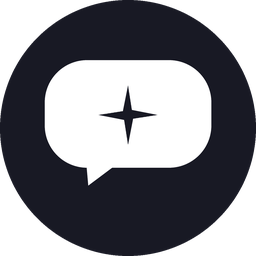
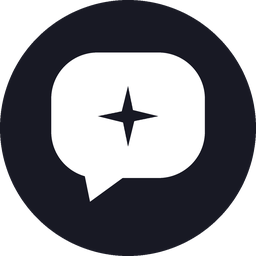
气泡改为方正比例（60%x49%，尾巴更明显、星腰加宽），修正方框内显扁的问题，版本 0.5.8

diff --git a/design/make_icon_final.py b/design/make_icon_final.py
@@ -10,7 +10,7 @@ DESIGN = os.path.dirname(os.path.abspath(__file__))
 INK = (24, 25, 36)
 
 
-def star_pts(cx, cy, a, c=0.19, rot=0.0):
+def star_pts(cx, cy, a, c=0.24, rot=0.0):
     pts = []
     for k in range(4):
         ang_tip = math.radians(rot + 90 * k)
@@ -24,13 +24,14 @@ def star_pts(cx, cy, a, c=0.19, rot=0.0):
     return pts
 
 
-def bubble_layer(star_scale=0.115):
+def bubble_layer(star_scale=0.118):
     """白色气泡，中央星形挖空为透明（自适应前景用）；star_scale=0 时为实心白"""
     fg = Image.new("RGBA", (SS, SS), (0, 0, 0, 0))
     d = ImageDraw.Draw(fg)
-    L, T, R, B = SS * 0.175, SS * 0.235, SS * 0.825, SS * 0.655
-    d.rounded_rectangle([L, T, R, B], radius=SS * 0.165, fill=(255, 255, 255, 255))
-    d.polygon([(SS * 0.335, SS * 0.615), (SS * 0.345, SS * 0.725), (SS * 0.465, SS * 0.635)],
+    # 气泡做得更方正：高宽比接近 1，避免在方框里显得扁
+    L, T, R, B = SS * 0.200, SS * 0.205, SS * 0.800, SS * 0.695
+    d.rounded_rectangle([L, T, R, B], radius=SS * 0.180, fill=(255, 255, 255, 255))
+    d.polygon([(SS * 0.330, SS * 0.680), (SS * 0.352, SS * 0.788), (SS * 0.492, SS * 0.686)],
               fill=(255, 255, 255, 255))
     if star_scale > 0:
         cx, cy = SS / 2, (T + B) / 2 + SS * 0.004
@@ -56,16 +57,16 @@ bg = Image.new("RGBA", (SS, SS), INK + (255,))
 
 # 整图（圆角预览图）
 icon = bg.copy()
-icon.alpha_composite(bubble_layer(star_scale=0.115))
+icon.alpha_composite(bubble_layer(star_scale=0.118))
 icon = icon.resize((S, S), Image.LANCZOS)
 round_mask(icon).save(os.path.join(DESIGN, "icon_1024.png"))
 
 # 自适应两层：前景 = 白气泡（星挖空透明），背景 = 纯色
 # Android 会把 108dp 图层裁到中央约 66%（安全区），前景必须整体缩进安全区，
 # 否则桌面显示时气泡边缘和尾巴会被裁掉
-SAFE = 0.58  # 前景内容占画布的最大比例（留足裁切余量）
+SAFE = 0.62  # 前景内容占画布的最大比例（留足裁切余量）
 fg_canvas = Image.new("RGBA", (SS, SS), (0, 0, 0, 0))
-bubble = bubble_layer(star_scale=0.115)
+bubble = bubble_layer(star_scale=0.118)
 bbox = bubble.getbbox()
 bw, bh = bbox[2] - bbox[0], bbox[3] - bbox[1]
 k = min(SS * SAFE / bw, SS * SAFE / bh)
@@ -82,7 +83,7 @@ bg.resize((S, S), Image.LANCZOS).save(os.path.join(DESIGN, "ic_launcher_bg_1024.
 for px in (48, 96, 144, 192):
     icon.resize((px, px), Image.LANCZOS).save(os.path.join(DESIGN, f"preview_{px}.png"))
 circle = bg.copy()
-circle.alpha_composite(bubble_layer(star_scale=0.115))
+circle.alpha_composite(bubble_layer(star_scale=0.118))
 circle = circle.resize((S, S), Image.LANCZOS)
 round_mask(circle, circle=True).resize((256, 256), Image.LANCZOS).save(
     os.path.join(DESIGN, "preview_adaptive_circle.png"))
